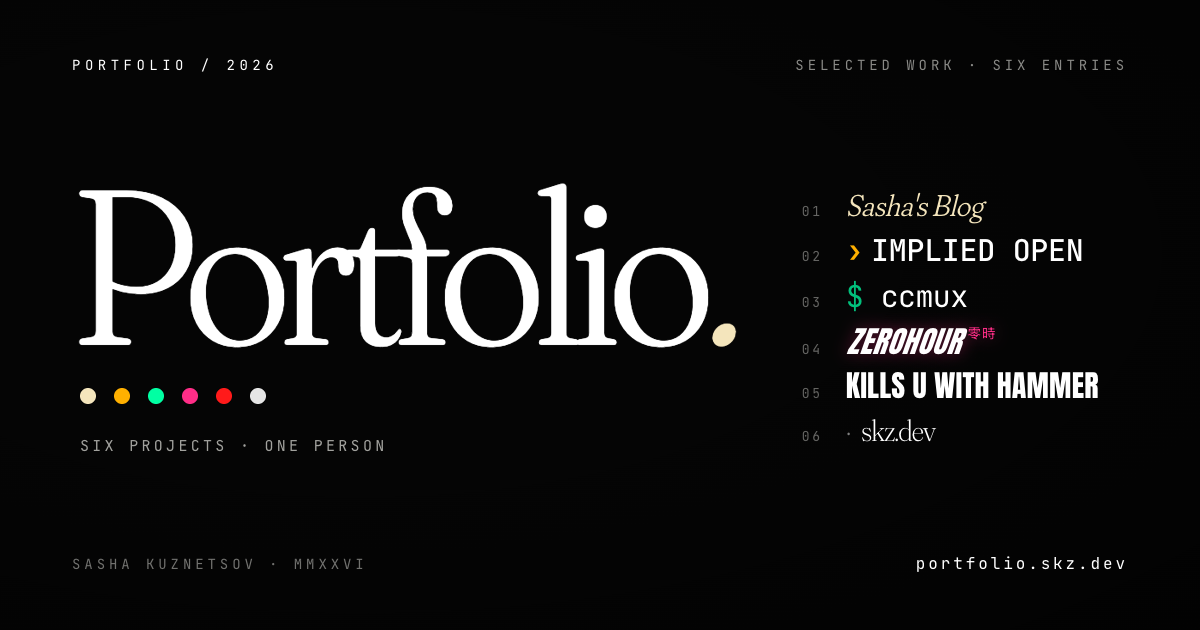
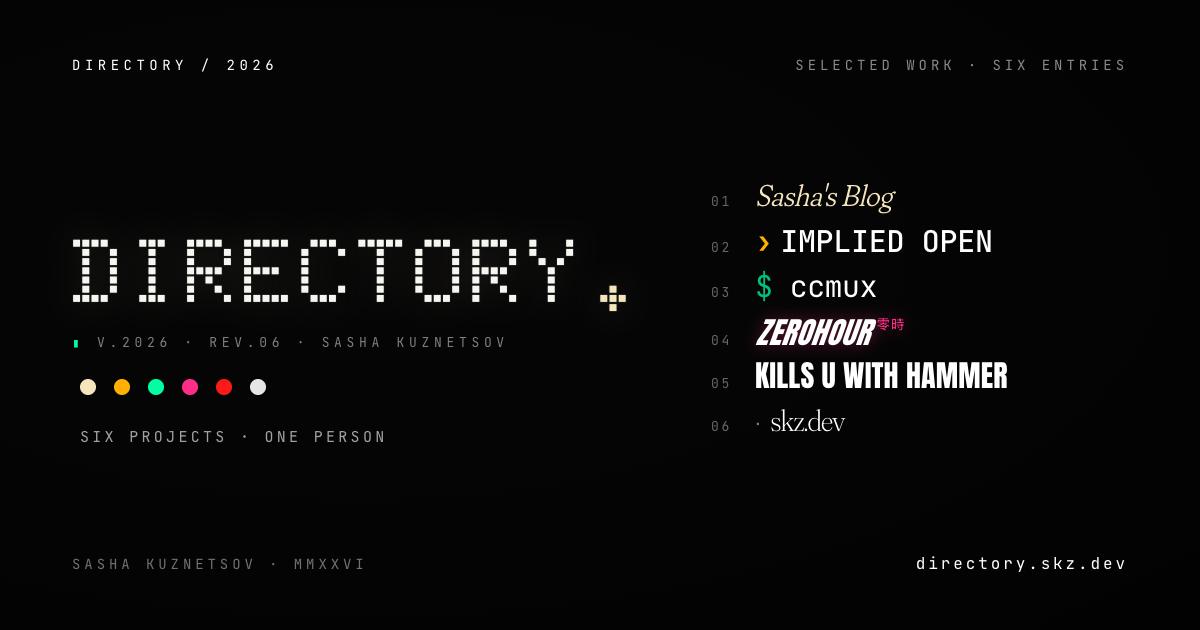
rename page identity to Directory, migrate to directory.skz.dev
- CNAME changes from portfolio.skz.dev to directory.skz.dev — page moves
  to the new subdomain. Repo name stays (it's just the storage location).
- New OG card design: "DIRECTORY" rendered in Doto (Google's variable
  dotmatrix font) for a digital/LED-readout aesthetic, replacing the
  Fraunces serif "Portfolio." Phosphor-green cursor and "v.2026 · rev.06"
  subline reinforce the system-readout vibe.
- Top bar updated PORTFOLIO/2026 → DIRECTORY/2026
- All meta tags, JSON-LD, sitemap.xml, robots.txt URLs migrated
- README updated

Requires DNS: CNAME directory → skzv.github.io

diff --git a/index.html b/index.html
@@ -9,46 +9,46 @@
 	<link rel="icon" href="/assets/img/favicon.png">
 	<link rel="apple-touch-icon" href="/assets/img/favicon.png">
 
-	<title>Portfolio | Sasha Kuznetsov — Selected work</title>
-	<meta name="description" content="Selected work by Sasha Kuznetsov — Implied Open (pre-market futures), ccmux (AI coding terminal), ZEROHOUR (JDM auto culture), Kills U With Hammer (streetwear drop), and the blog.">
+	<title>Directory | Sasha Kuznetsov — Selected work</title>
+	<meta name="description" content="A directory of work by Sasha Kuznetsov — Implied Open (pre-market futures), ccmux (AI coding terminal), ZEROHOUR (JDM auto culture), Kills U With Hammer (streetwear drop), the blog, and skz.dev.">
 	<meta name="author" content="Sasha Kuznetsov">
-	<meta name="keywords" content="Sasha Kuznetsov, portfolio, Implied Open, ccmux, zerohour, kills u with hammer, software engineer, physicist">
+	<meta name="keywords" content="Sasha Kuznetsov, directory, portfolio, Implied Open, ccmux, zerohour, kills u with hammer, software engineer, physicist">
 	<meta name="robots" content="index, follow, max-image-preview:large, max-snippet:-1">
-	<link rel="canonical" href="https://portfolio.skz.dev/">
+	<link rel="canonical" href="https://directory.skz.dev/">
 	<link rel="sitemap" type="application/xml" href="/sitemap.xml">
 
-	<meta property="og:title" content="Portfolio — Sasha Kuznetsov">
+	<meta property="og:title" content="Directory — Sasha Kuznetsov">
 	<meta property="og:description" content="Six selected projects: Implied Open, ccmux, ZEROHOUR, Kills U With Hammer, the blog, and skz.dev.">
-	<meta property="og:url" content="https://portfolio.skz.dev/">
+	<meta property="og:url" content="https://directory.skz.dev/">
 	<meta property="og:site_name" content="Sasha Kuznetsov">
 	<meta property="og:type" content="website">
 	<meta property="og:locale" content="en_US">
-	<meta property="og:image" content="https://portfolio.skz.dev/assets/img/og.png">
-	<meta property="og:image:secure_url" content="https://portfolio.skz.dev/assets/img/og.png">
+	<meta property="og:image" content="https://directory.skz.dev/assets/img/og.png">
+	<meta property="og:image:secure_url" content="https://directory.skz.dev/assets/img/og.png">
 	<meta property="og:image:type" content="image/png">
 	<meta property="og:image:width" content="1200">
 	<meta property="og:image:height" content="630">
-	<meta property="og:image:alt" content="Portfolio · Sasha Kuznetsov — six projects: Sasha's Blog, Implied Open, ccmux, ZEROHOUR, Kills U With Hammer, skz.dev">
+	<meta property="og:image:alt" content="Directory · Sasha Kuznetsov — six projects: Sasha's Blog, Implied Open, ccmux, ZEROHOUR, Kills U With Hammer, skz.dev">
 
 	<meta name="twitter:card" content="summary_large_image">
 	<meta name="twitter:site" content="@_skzv">
 	<meta name="twitter:creator" content="@_skzv">
-	<meta name="twitter:title" content="Portfolio — Sasha Kuznetsov">
+	<meta name="twitter:title" content="Directory — Sasha Kuznetsov">
 	<meta name="twitter:description" content="Six selected projects: Implied Open, ccmux, ZEROHOUR, Kills U With Hammer, the blog, and skz.dev.">
-	<meta name="twitter:image" content="https://portfolio.skz.dev/assets/img/og.png">
-	<meta name="twitter:image:alt" content="Portfolio · Sasha Kuznetsov — six projects shown in distinct typography">
+	<meta name="twitter:image" content="https://directory.skz.dev/assets/img/og.png">
+	<meta name="twitter:image:alt" content="Directory · Sasha Kuznetsov — six projects shown in distinct typography">
 
 	<script type="application/ld+json">
 	{
 		"@context": "https://schema.org",
 		"@type": "CollectionPage",
-		"name": "Portfolio",
-		"headline": "Portfolio — Sasha Kuznetsov",
-		"description": "Selected work by Sasha Kuznetsov — Implied Open, ccmux, ZEROHOUR, Kills U With Hammer, the blog, and skz.dev.",
-		"url": "https://portfolio.skz.dev/",
+		"name": "Directory",
+		"headline": "Directory — Sasha Kuznetsov",
+		"description": "A directory of work by Sasha Kuznetsov — Implied Open, ccmux, ZEROHOUR, Kills U With Hammer, the blog, and skz.dev.",
+		"url": "https://directory.skz.dev/",
 		"image": {
 			"@type": "ImageObject",
-			"url": "https://portfolio.skz.dev/assets/img/og.png",
+			"url": "https://directory.skz.dev/assets/img/og.png",
 			"width": 1200,
 			"height": 630
 		},
@@ -555,7 +555,7 @@
 
 <nav class="bar">
 	<a class="back" href="https://skz.dev">SKZ.DEV</a>
-	<span class="mark">PORTFOLIO / 2026</span>
+	<span class="mark">DIRECTORY / 2026</span>
 	<span class="clock" id="clock">— : — : — UTC</span>
 </nav>
 

diff --git a/README.md b/README.md
@@ -1,6 +1,6 @@
 # portfolio-skz-dev
 
-Single-page portfolio served at https://portfolio.skz.dev.
+Single-page portfolio served at https://directory.skz.dev.
 
 Standalone HTML — no build step. GitHub Pages serves `index.html` from `main`
 and HTTPS is auto-provisioned via the `CNAME` file.
